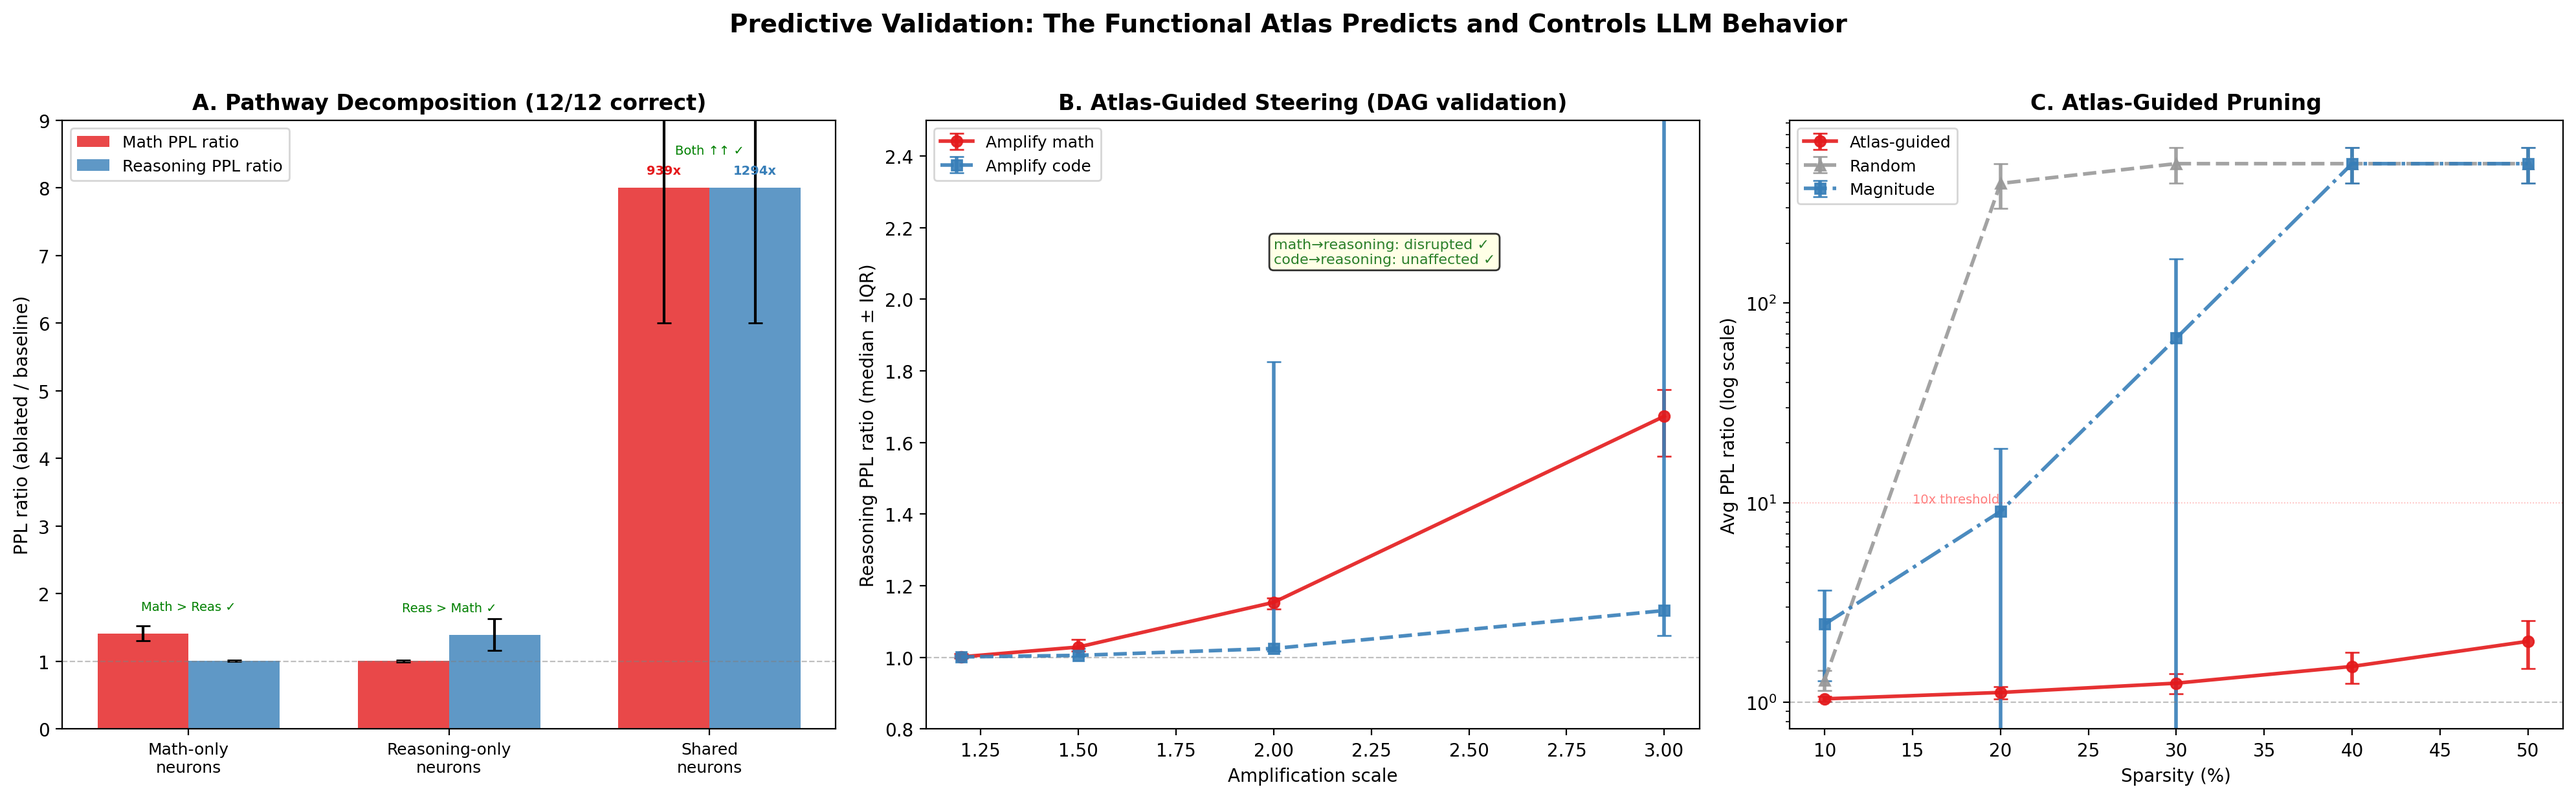
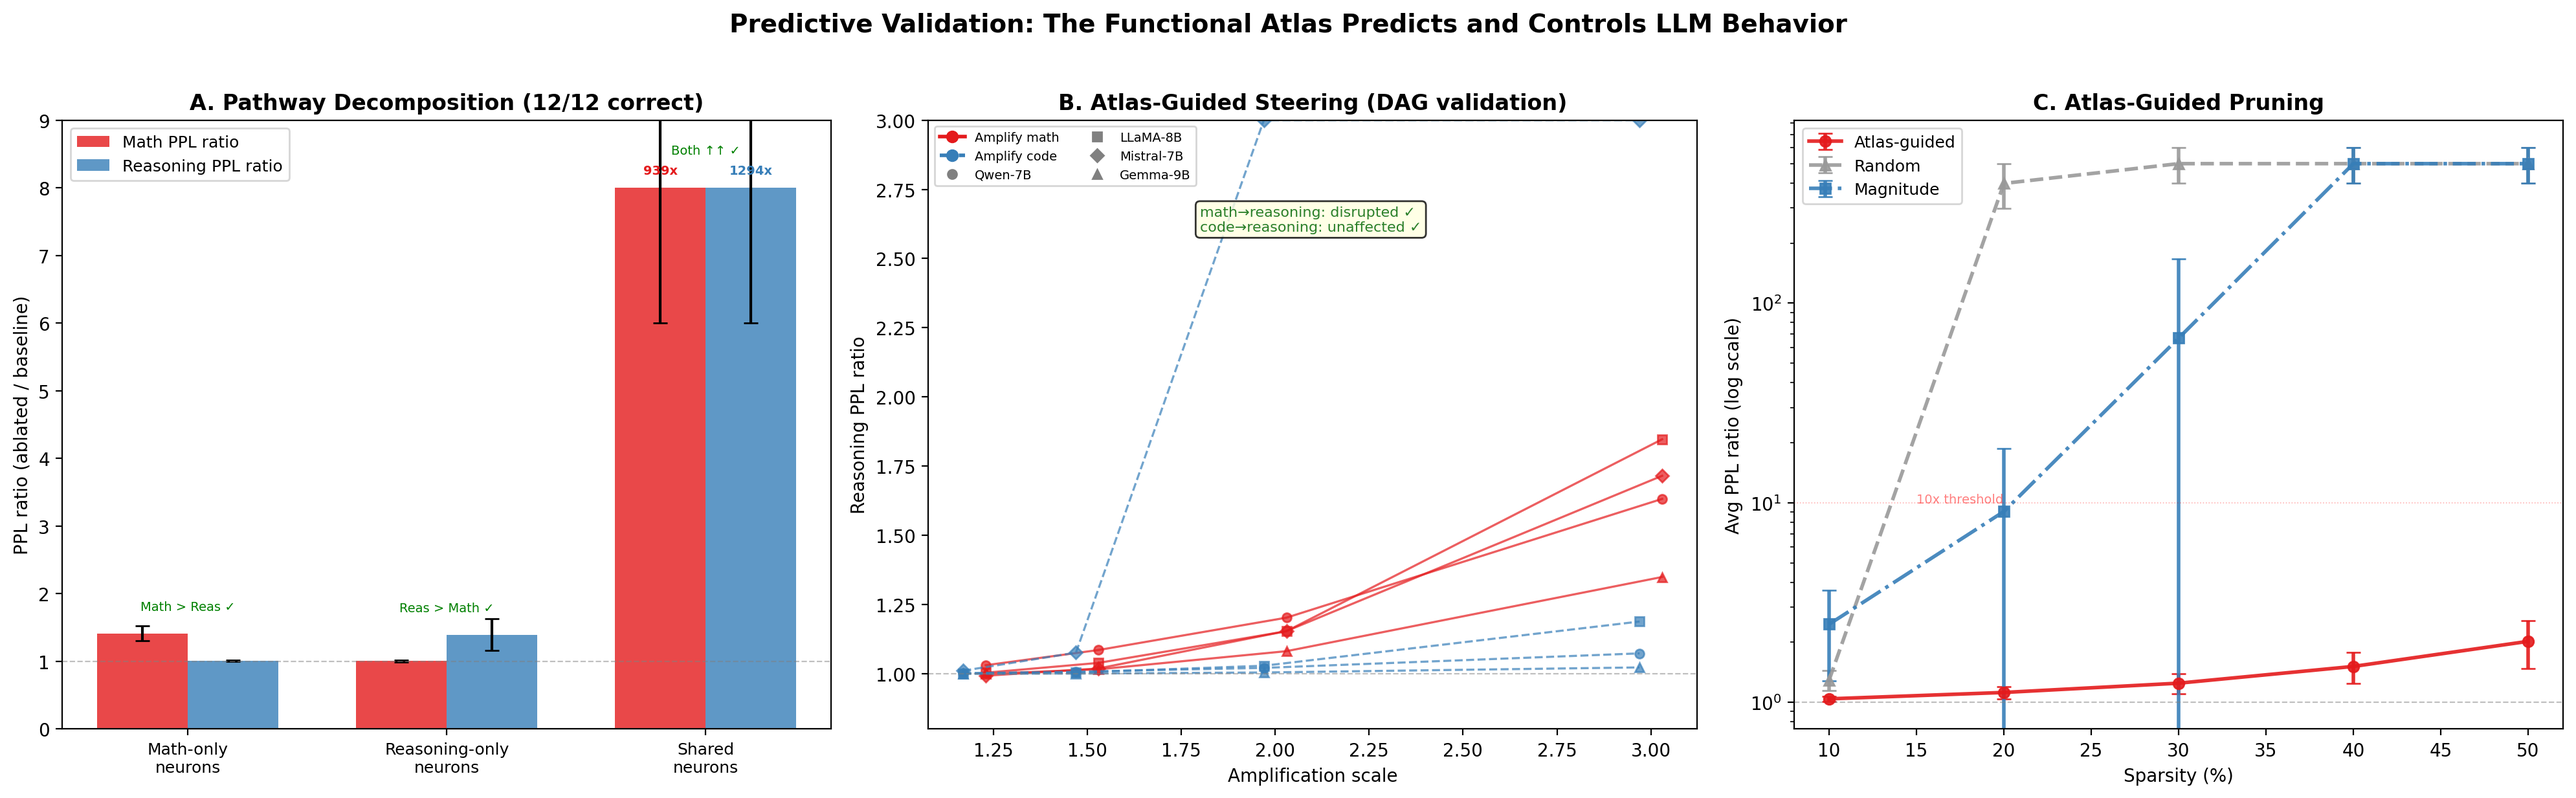
Steering panel: scatter per model instead of errorbar, Mistral outlier visible
Panel B now shows individual model lines with distinct markers instead of
median+IQR. Mistral's code amplification outlier (575x at scale=3.0) is
clipped to 3.0x and clearly visible as an anomaly vs 3 other models flat.

diff --git a/experiments/src/visualize_predictive.py b/experiments/src/visualize_predictive.py
@@ -97,49 +97,66 @@ def plot_steering(pred_dir, ax):
     scales = ["1.2", "1.5", "2.0", "3.0"]
     scale_vals = [1.2, 1.5, 2.0, 3.0]
     targets = ["math", "code"]
-    target_labels = {"math": "Amplify math", "code": "Amplify code"}
     target_colors = {"math": "#e41a1c", "code": "#377eb8"}
-    target_styles = {"math": "-o", "code": "--s"}
+
+    model_markers = {
+        "Qwen-7B": "o",
+        "LLaMA-8B": "s",
+        "Mistral-7B": "D",
+        "Gemma-9B": "^",
+    }
 
     for target in targets:
-        all_deltas = {s: [] for s in scales}
+        per_model = {}
         for model_full, model_short in MODELS:
             path = os.path.join(pred_dir, f"{model_full}_predictive_results.json")
             if not os.path.exists(path):
                 continue
             with open(path) as f:
                 data = json.load(f)
-            st = data["steering"]
 
             pd_bl = data["pathway_decomposition"]["baseline"]
             bl_reas = pd_bl["reasoning"]["ppl"]
+            sr = data["steering"]["steering_results"].get(target, {})
 
-            sr = st["steering_results"].get(target, {})
+            ratios = []
             for s in scales:
                 if s in sr and "reasoning" in sr[s]:
                     reas_ppl = sr[s]["reasoning"]["ppl"] if isinstance(sr[s]["reasoning"], dict) else sr[s]["reasoning"]
-                    all_deltas[s].append(reas_ppl / bl_reas)
+                    r = reas_ppl / bl_reas
+                    ratios.append(min(r, 3.0))
+                else:
+                    ratios.append(1.0)
+            per_model[model_short] = ratios
 
-        medians = [np.median(all_deltas[s]) if all_deltas[s] else 1.0 for s in scales]
-        q25 = [np.percentile(all_deltas[s], 25) if all_deltas[s] else 1.0 for s in scales]
-        q75 = [np.percentile(all_deltas[s], 75) if all_deltas[s] else 1.0 for s in scales]
-        yerr_low = [medians[i] - q25[i] for i in range(len(scales))]
-        yerr_high = [q75[i] - medians[i] for i in range(len(scales))]
+        for model_short, ratios in per_model.items():
+            jitter = 0.03 if target == "math" else -0.03
+            x_vals = [sv + jitter for sv in scale_vals]
+            label = f"{'Math' if target == 'math' else 'Code'} ({model_short})" if model_short == "Qwen-7B" else None
+            ax.plot(x_vals, ratios, marker=model_markers[model_short],
+                    color=target_colors[target], linewidth=1.2, markersize=5,
+                    alpha=0.7, linestyle="-" if target == "math" else "--",
+                    label=None)
+            # Only label once per target for legend
+        # Draw a single legend entry per target
+        ax.plot([], [], color=target_colors[target],
+                linestyle="-" if target == "math" else "--",
+                marker="o", label=f"Amplify {target}", linewidth=2)
 
-        ax.errorbar(scale_vals, medians, yerr=[yerr_low, yerr_high],
-                    fmt=target_styles[target],
-                    color=target_colors[target], label=target_labels[target],
-                    linewidth=2, markersize=6, capsize=4, alpha=0.9)
+    # Add model legend
+    for model_short, marker in model_markers.items():
+        ax.plot([], [], marker=marker, color="gray", linestyle="none",
+                markersize=5, label=model_short)
 
     ax.axhline(y=1.0, color="gray", linestyle="--", linewidth=0.8, alpha=0.5)
     ax.set_xlabel("Amplification scale", fontsize=10)
-    ax.set_ylabel("Reasoning PPL ratio (median ± IQR)", fontsize=10)
+    ax.set_ylabel("Reasoning PPL ratio", fontsize=10)
     ax.set_title("B. Atlas-Guided Steering (DAG validation)", fontsize=12, fontweight="bold")
-    ax.legend(fontsize=9, loc="upper left")
-    ax.set_ylim(0.8, 2.5)
+    ax.legend(fontsize=7, loc="upper left", ncol=2)
+    ax.set_ylim(0.8, 3.0)
 
     ax.annotate("math→reasoning: disrupted ✓\ncode→reasoning: unaffected ✓",
-                xy=(2.0, 2.1), fontsize=8, color="#2a7f2a",
+                xy=(1.8, 2.6), fontsize=8, color="#2a7f2a",
                 bbox=dict(boxstyle="round,pad=0.3", facecolor="lightyellow", alpha=0.8))
 
 
